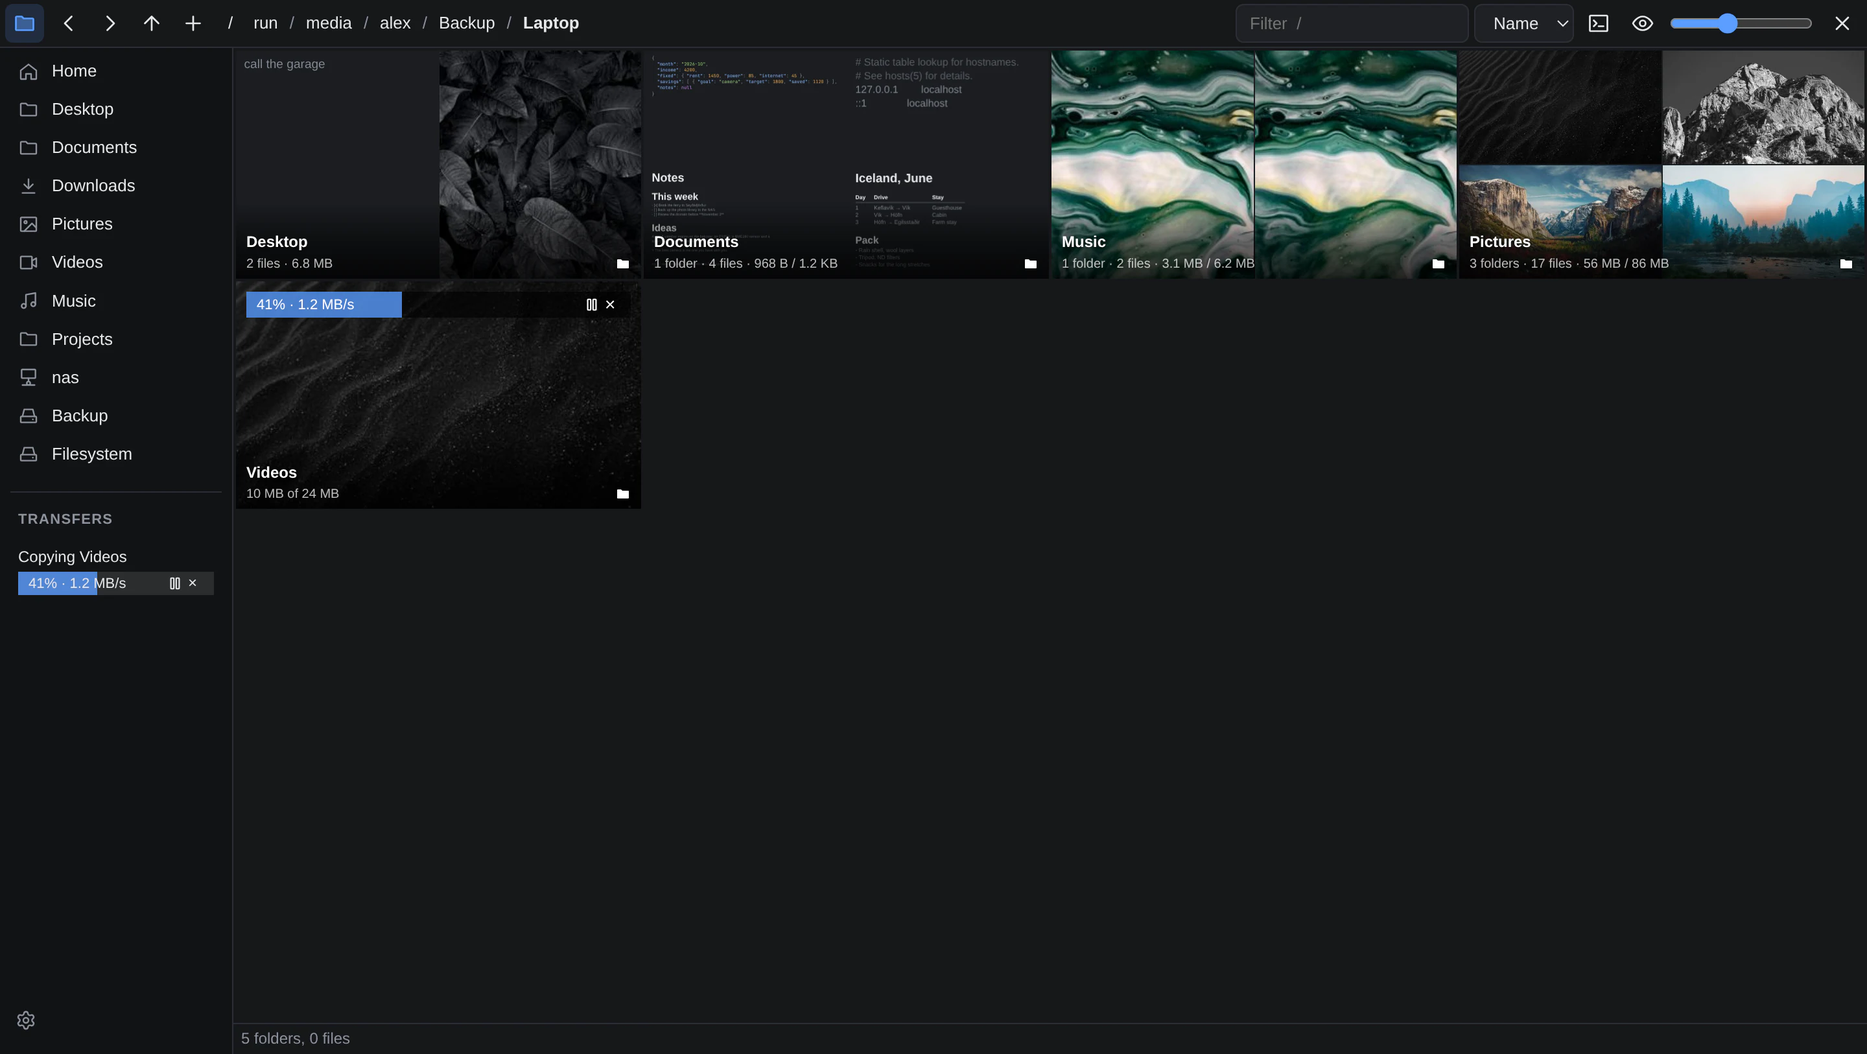
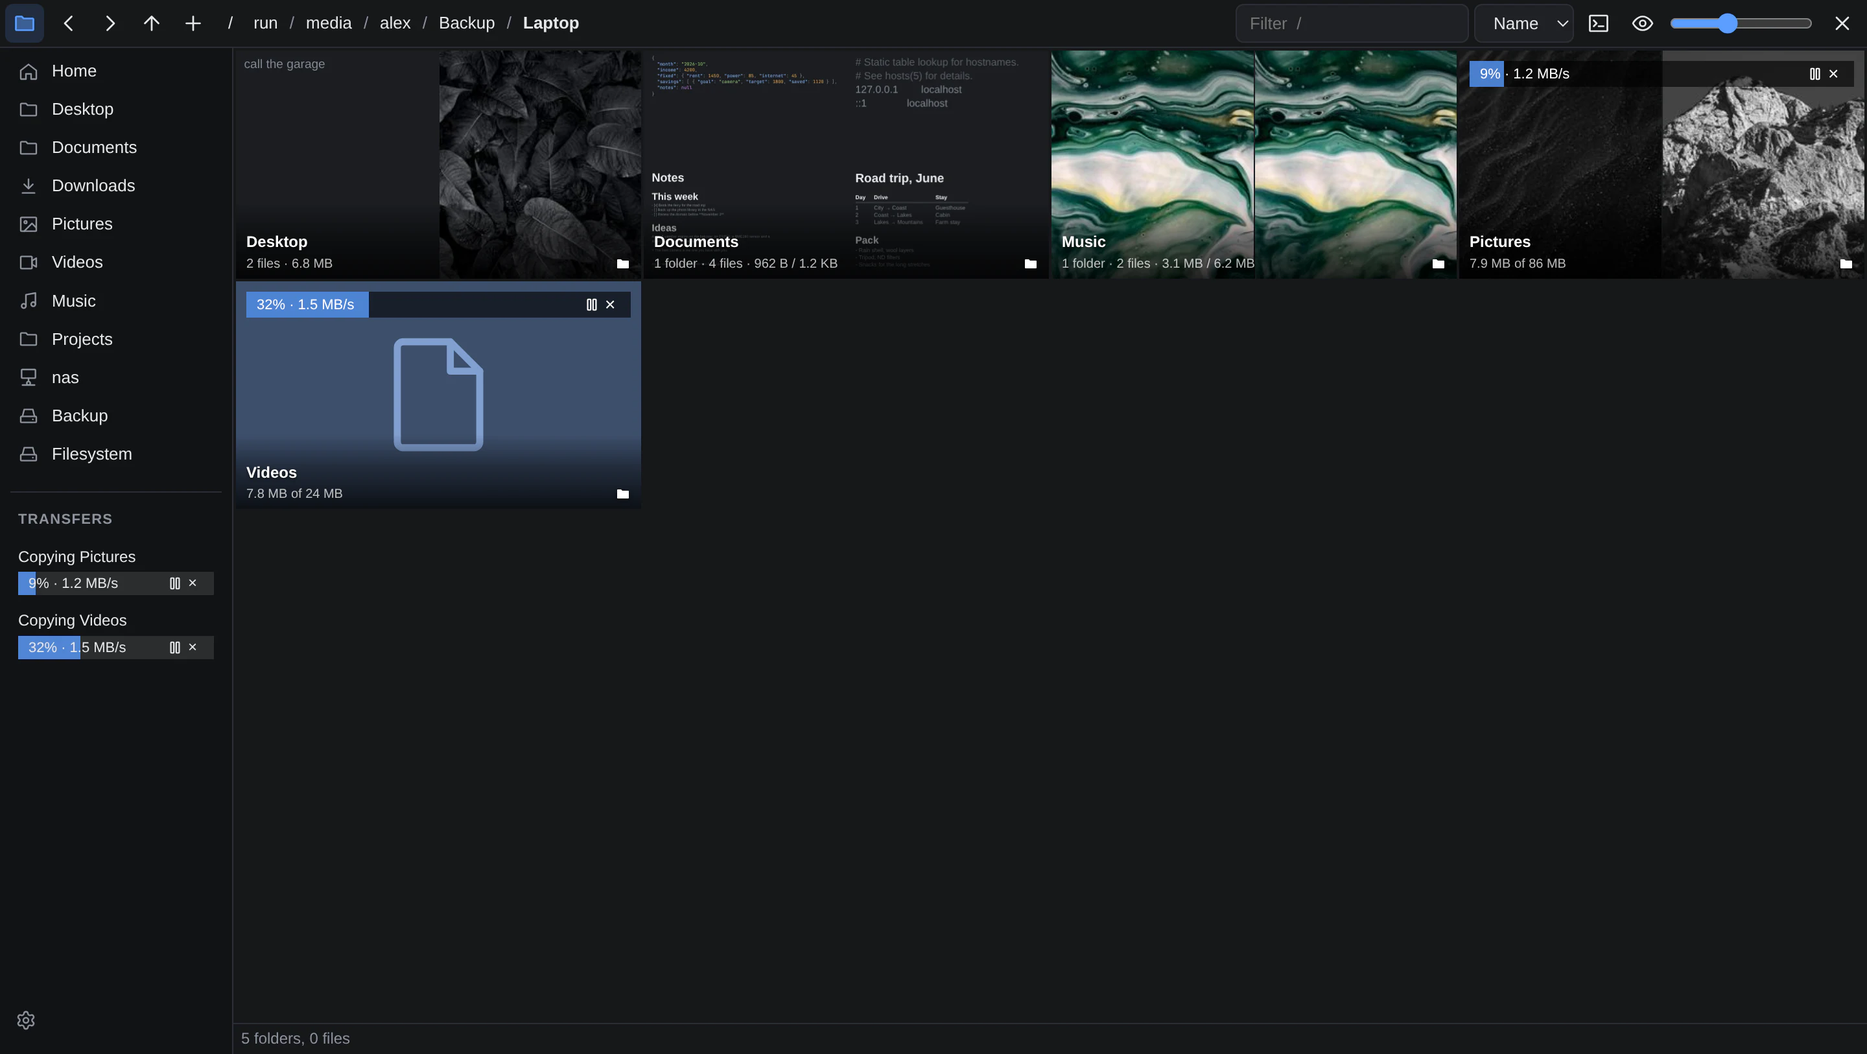
Windows open in the default browser (Chromium-based) unless "browser": "webkit", WebKitGTK the fallback; the sidebar's Transfers heading only while there's something (the gear → "Transfers and downloads…" otherwise); README: a Downloads section (panda-dl, our fork; Streamgrab's reports), screenshots
Claude-Session: https://claude.ai/code/session_017ARhVFPUT4MnMeCqxVuHaJ

diff --git a/apps/phil/ui/app.js b/apps/phil/ui/app.js
@@ -1654,6 +1654,7 @@ for (const input of settingsPop.querySelectorAll("[data-setting]")) {
     saveSettings();
   };
 }
+$("#settings-transfers").onclick = () => (openSettings(false), openTransfersView());
 themeSelect.onchange = () => api("/api/theme", { method: "PUT", body: JSON.stringify({ theme: themeSelect.value }) }).catch((err) => alert(err.message));
 
 function setTheme(theme) {
@@ -3610,6 +3611,8 @@ function renderTransferList() {
     ...state.browserDownloads.map((w) => ({ key: `web ${w.id}`, w })),
   ];
   keyed($("#transfers"), list, { key: (b) => b.key, kind: barKind, make: makeTransferRow, show: showTransferRow });
+  // Its heading only while there's something (or the view's open); the settings have a way in too.
+  $("#transfers-panel").classList.toggle("empty", !list.length && transfersView.hidden);
   if (!transfersView.hidden) renderTransfersView(list);
 }
 
@@ -3728,6 +3731,7 @@ function closeTransfersView() {
   if (transfersView.hidden) return;
   transfersView.hidden = true;
   $("#btn-transfers").setAttribute("aria-pressed", "false");
+  renderTransferList();
   const back = transfersFocus?.isConnected && transfersFocus !== document.body && !transfersView.contains(transfersFocus) ? transfersFocus : grid;
   back.focus({ preventScroll: true });
 }

diff --git a/engine/chromium.js b/engine/chromium.js
@@ -48,12 +48,13 @@ const CHROMIUM_LIKE = /chrom|brave|vivaldi|edge|opera|thorium|yandex|cromite|hel
 
 /**
  * The browser to use for windows (its program's path), by `setting` (the
- * settings' "browser", or PHIL_BROWSER): "default" (the default browser if
- * it's Chromium-based, otherwise the first of KNOWN installed), a path, or
- * "webkit"/empty: none (WebKitGTK windows). Null when there's none.
+ * settings' "browser", or PHIL_BROWSER): "default" or empty (the default
+ * browser if it's Chromium-based, otherwise the first of KNOWN installed), a
+ * path, or "webkit": none (WebKitGTK windows). Null when there's none.
  */
 export async function findBrowser(setting) {
-  if (!setting || setting === "webkit") return null;
+  if (setting === "webkit") return null;
+  setting ||= "default";
   if (setting.startsWith("/")) return (await isProgram(setting)) ? setting : null;
   if (setting !== "default") return CHROMIUM_LIKE.test(setting) ? await onPath(setting) : null; // (a name: one of theirs)
   const desktop = await run("xdg-settings", ["get", "default-web-browser"]);

diff --git a/apps/phil/ui/index.html b/apps/phil/ui/index.html
@@ -75,7 +75,7 @@
     <div class="brand" aria-hidden="true">PHIL</div>
     <nav id="places" aria-label="Folders and drives"></nav>
     <!-- Copies, moves, deletes and downloads under way (or paused): a click shows where it goes. Its heading opens the Transfers view. -->
-    <section id="transfers-panel">
+    <section id="transfers-panel" class="empty">
       <h3 class="heading"><button id="btn-transfers" type="button" title="All transfers, and the settings for downloads">Transfers</button></h3>
       <div id="transfers"></div>
     </section>
@@ -98,6 +98,7 @@
         <label class="check"><input type="checkbox" data-setting="showCameras"> Cameras</label>
         <h3 class="heading">Theme</h3>
         <select id="settings-theme" aria-label="Theme"></select>
+        <button id="settings-transfers" type="button" title="Every transfer, and the settings for downloads">Transfers and downloads…</button>
       </div>
     </div>
   </aside>

diff --git a/engine/main.js b/engine/main.js
@@ -197,9 +197,9 @@ async function serve({ profile = {}, request = null, browser = false, standalone
   const launchers = Object.fromEntries(
     await Promise.all(Object.entries(APPS).map(async ([name, app]) => [name, await app.launch()])),
   );
-  // Windows: in a Chromium-based browser (chromium.js) when the settings'
-  // "browser" (or PHIL_BROWSER) asks for one ("default": the default browser,
-  // or another installed; a path) and there is one; otherwise WebKitGTK's (window.js).
+  // Windows: in a Chromium-based browser (chromium.js): the default browser, or
+  // another installed (the settings' "browser", or PHIL_BROWSER: a name or path);
+  // with none, or "webkit", WebKitGTK's (window.js).
   const chromium = browser ? null : await import("./chromium.js").then(async (m) => {
     const path = await m.findBrowser(Deno.env.get("PHIL_BROWSER") ?? await setting("browser"));
     return path && { module: m, path };

diff --git a/apps/phil/ui/style.css b/apps/phil/ui/style.css
@@ -940,4 +940,6 @@ body.choosing #files { --chooser-h: 48px; }
 #settings-pop select { width: 100%; }
 /* What the settings leave out of the sidebar (and a file chooser's window). */
 body.no-transfers #transfers-panel, body.no-cameras #cameras-panel { display: none; }
+#transfers-panel.empty { display: none; }
+#settings-transfers { margin-top: 6px; }
 body.choosing .sidebar-foot { display: none; } /* a file chooser: no settings */

diff --git a/README.md b/README.md
@@ -1,8 +1,10 @@
 # phil
 
 A scopemaxed, vibecoded file manager and the engine it
-runs on. The UI is plain HTML/CSS/JS rendered by the system WebKitGTK; the
-backend is JavaScript running on Deno. No bundled browser, no npm dependencies.\
+runs on. The UI is plain HTML/CSS/JS, shown in app windows of your default
+browser's engine (Chromium-based: Chrome, Brave, Vivaldi...), with the system
+WebKitGTK as the fallback; the backend is JavaScript running on Deno. No
+bundled browser, no npm dependencies.\
 Developed and tested on Omarchy, the install scripts assumes a similar setup.
 
 ![phil showing a Pictures folder: photo thumbnails with their tags, folders with previews of what's inside, and the folder's tags in the sidebar](docs/screenshots/pictures.webp)
@@ -17,6 +19,8 @@ Developed and tested on Omarchy, the install scripts assumes a similar setup.
 | Code, highlighted (textedit) | Resize, crop, turn and compress (imageresize) |
 | ![Copying the Videos folder to a backup drive: its tile and the sidebar's Transfers show the percentage and speed, with pause and stop](docs/screenshots/transfer.webp) | ![videoplayer playing a letterboxed video, its Crop menu open at 2.39:1](docs/screenshots/video.webp) |
 | Copying to another drive with rsync: progress on the folder and in the sidebar, pause, stop and resume | Videos play in the window (videoplayer); Crop cuts off the bars in the picture |
+| ![Downloads: torrents and a web download from panda-dl, and a video from Streamgrab, each with its bar on its tile and in the sidebar's Transfers](docs/screenshots/downloads.webp) | ![The Transfers view: every download in full, with speeds, time left, peers and seeds, and panda-dl's settings](docs/screenshots/transfers-view.webp) |
+| Torrents and web downloads (panda-dl) and browser videos (Streamgrab), as they come in | The Transfers view: each in full, and the settings for downloads |
 | ![The chips theme](docs/screenshots/chips.webp) | |
 | Themes: here, chips | |
 
@@ -25,7 +29,7 @@ Developed and tested on Omarchy, the install scripts assumes a similar setup.
 ## The engine and its apps
 
 phil is one app of `phil-engine`, which runs apps in one background process:
-their windows (GTK + WebKitGTK) share a main loop, and their servers a worker.
+their windows (the browser's, or GTK + WebKitGTK's: see [Windows](#windows-your-browsers-engine-or-webkitgtk)) share a main loop, and their servers a worker.
 The first app you run starts the engine in the background; after that, an app's
 command just asks the running engine for a window and returns, so windows open
 quickly. The engine keeps running after its last window closes.
@@ -95,16 +99,16 @@ chooser: apps' Open and Save dialogs (Brave's, Firefox's...) are phil windows. I
 `<browser>-127.0.0.1__phil-choose-Default`), for a window rule that floats
 them; they don't open the terminal panel or change the folder phil reopens. They start with hidden files hidden and without the sidebar's Transfers and Cameras, and keep their own sort, tile size and sidebar (the settings' `chooser`), apart from phil's windows'.
 
-### Windows in Chromium instead of WebKitGTK
+### Windows: your browser's engine, or WebKitGTK
 
-With `"browser": "default"` in `~/.config/phil/settings.json` (or
-`PHIL_BROWSER=default`), the engine's windows open in a Chromium-based browser
-instead: the default browser when it's one (Chrome, Chromium, Brave, Vivaldi,
-Edge, Opera…), otherwise the first of those installed; a browser's name
-(`"chromium"`) or path picks one. Its video and drawing are Blink's: HLS
-cameras that stuttered in WebKitGTK play smoothly. Without one (or with
-`"webkit"`, the default), windows are WebKitGTK's. A newly started engine
-takes the setting (`phil-engine --retire`, or `phil --quit`).
+The engine's windows open in your default browser when it's Chromium-based
+(Chrome, Chromium, Brave, Vivaldi, Edge, Opera…), otherwise in the first of
+those installed; with none, they're WebKitGTK's. `"browser"` in
+`~/.config/phil/settings.json` (or `PHIL_BROWSER`) picks another: a browser's
+name (`"chromium"`) or path, or `"webkit"` for WebKitGTK's windows always. In
+a browser, video and drawing are Blink's: HLS cameras that stuttered in
+WebKitGTK play smoothly. A newly started engine takes the setting
+(`phil-engine --retire`, or `phil --quit`).
 
 - One browser for all the engine's windows, with a profile of its own
   (`~/.local/state/phil/browser-<name>`; incognito: a throwaway one), so
@@ -323,6 +327,26 @@ up to 400 lines), when its tile comes into view. Documents (Word, RTF,
 OpenDocument) show their text too, from the Markdown textedit reads them as
 (below; converted once, then kept with the thumbnails).
 
+### Downloads
+
+phil shows downloads where they land, as it shows copies: a bar on the file or
+folder being downloaded and a row in the sidebar's Transfers, with pause and
+stop.
+
+- [panda-dl](https://github.com/navnlaus/panda-dl) (our fork of
+  [pandaind/panda-dl](https://github.com/pandaind/panda-dl), with what phil
+  needs: each torrent file's progress, skipping files, torrents in their own
+  folder) downloads web links and torrents. phil asks its daemon over its
+  socket: every download, a torrent's files each with their own progress,
+  peers and seeds, uploads while seeding. A link or `.torrent` dropped on phil
+  is downloaded where it's dropped; links and magnets copied to the clipboard
+  are downloaded too, if you want. Its settings are in the Transfers view
+  (click the Transfers heading).
+- Any other program can show its downloads there by writing a progress report
+  to `$XDG_RUNTIME_DIR/phil/transfers/<name>.json` (`apps/phil/browserdownloads.js`
+  has the format): Streamgrab, a Brave extension that downloads the videos and
+  streams a page plays, does.
+
 ### Settings
 
 The gear at the bottom of the sidebar: whether the sidebar shows Transfers and
@@ -378,7 +402,7 @@ empty space → Inspect Element works too.
 
 ## Requirements
 
-`webkit2gtk-4.1` (or a Chromium-based browser: see [Windows in Chromium](#windows-in-chromium-instead-of-webkitgtk)), `deno`, `wl-clipboard`, `libvips` (built with poppler, for PDF thumbnails) (`vipsthumbnail`, `vips`), `ffmpegthumbnailer`,
+A Chromium-based browser, or `webkit2gtk-4.1` (see [Windows](#windows-your-browsers-engine-or-webkitgtk)), `deno`, `wl-clipboard`, `libvips` (built with poppler, for PDF thumbnails) (`vipsthumbnail`, `vips`), `ffmpegthumbnailer`,
 `ffmpeg` (videoplayer: probing and converting), and with WebKitGTK, GStreamer
 plugins for its video (`gst-plugins-good`, `gst-libav`). `mpv`
 and `xdg-open` are used for "open externally". `udisks2` (`udisksctl`) mounts removable drives from the sidebar; a system drive's mount, like everything phil does as root, goes through `sudo`.
@@ -438,7 +462,7 @@ click; HTTP/2 carries any number over one connection, and WebKit only speaks it
 over TLS. The certificate is made at each start (openssl, a few ms), for
 127.0.0.1, kept in memory only, and trusted by the engine's windows alone
 (`webkit_web_context_allow_tls_certificate_for_host`; a browser's: see
-[Windows in Chromium](#windows-in-chromium-instead-of-webkitgtk)). `--browser` (a browser
+[Windows](#windows-your-browsers-engine-or-webkitgtk)). `--browser` (a browser
 wouldn't trust it) and `PHIL_PLAIN_HTTP=1` stay on plain HTTP, as does an
 engine that can't run openssl.
 
@@ -560,11 +584,11 @@ It is a real terminal (xterm.js on a pseudo-terminal), started with your
 | drop files from another phil window (any button: middle moves, the others ask) or another program (a file manager…) | onto a folder (its tile, a place in the sidebar, a part of the path) or the folder's empty space: "Move to" / "Copy to" (all from that folder already: "Copy here"), with the same progress, pause and resume |
 | right-drag onto a folder | menu: "Move to" / "Copy to" (folder tiles, path segments in the top bar, the sidebar); out of the window, the files go on being dragged, for the app they're dropped on to copy, move or ask |
 | a copy or move under way | a bar on the folder it goes to, on what it's making there, on the file it's at (that file's percentage), and in the sidebar's Transfers, with the percentage and speed (time left in its tooltip); while it gets ready (counting, rsync listing the files, or on a resume comparing them with what's there) a turning icon and what it's doing (in the sidebar, the icon); ⏸ pauses, × stops (what's done stays: a move removes each file only once it's copied). Its record (in phil's metadata, every few seconds) outlives a crash: a copy cut off shows "Stopped at 45%" on its folder, and the file it was at "Cut off at 18%" (a file that takes more than a few seconds has a record of its own; in the sidebar's Transfers, just the percentage); ↻ resumes it where it stopped: finished files are skipped, and a file that was cut off is appended to, from where it stopped, then checked whole against the original (rsync --inplace --append-verify; after a crash too); copying the same thing there again goes on with it too; × forgets it. rsync stops with phil, so nothing copies on unseen. Moves within a drive, and copies within one that clones files (btrfs), are instant and skip it. Folders being copied into show their size as it goes: the folder a copy (of one item) is making, "1.3 GB of 3.0 GB"; the folder it goes into, its size growing by what's been copied. Before it starts (a resume too), what's left to copy is checked against the destination's free space: too little, it says so and doesn't start. A copy that fails says why, from rsync's errors ("No space left on device", not the broken pipe the other side reports) |
-| a download under way ([panda-dl](https://github.com/pandaind/panda-dl)'s: HTTP and BitTorrent) | a bar like a copy's: on what's being downloaded (once it's there; a torrent's files each with their own progress, and the folders in it with theirs together: a file it has finished gets the finished mark and its thumbnail while the rest goes on; this needs panda-dl to list a torrent's files, a change to it in `~/Projects/panda-dl`, branch `file-progress`; without that, its files are guessed and share its progress), on the folder it goes to and in the sidebar's Transfers, with the percentage and speed (time left and peers in its tooltip); ⏸ pauses, ▶ resumes, × stops and forgets it (what's downloaded stays). × on one of a torrent's files (or a folder in it), or deleting it in phil, drops just that from the download and the rest goes on; dropping its last file closes it. phil asks panda-dl's daemon over its socket, on one connection: every second while something downloads, every 5 seconds otherwise, never while no window is open (`apps/phil/downloads.js`; `PANDA_DL_SOCKET` for another socket). What's being downloaded isn't thumbnailed till it's done, then at once. Links dropped on a folder (a tile, a place, a part of the path, or the empty space: the folder shown), a magnet link or a web link from a browser, are downloaded there; a dropped .torrent file offers "Download into" before Move and Copy (panda-dl's daemon is started then if it isn't running: `panda-dl start`, `PANDA_DL` for another panda-dl; it runs on apart from phil). One finished but still in panda-dl's list has a small mark on its tile: a download icon, and ↑ with its upload speed while it's seeding (what it has uploaded, and its ratio, in the tooltip); × takes it off the list (the file stays) |
+| a download under way ([panda-dl](https://github.com/navnlaus/panda-dl)'s: HTTP and BitTorrent) | a bar like a copy's: on what's being downloaded (once it's there; a torrent's files each with their own progress, and the folders in it with theirs together: a file it has finished gets the finished mark and its thumbnail while the rest goes on; this needs panda-dl to list a torrent's files, a change to it in `~/Projects/panda-dl`, branch `file-progress`; without that, its files are guessed and share its progress), on the folder it goes to and in the sidebar's Transfers, with the percentage and speed (time left and peers in its tooltip); ⏸ pauses, ▶ resumes, × stops and forgets it (what's downloaded stays). × on one of a torrent's files (or a folder in it), or deleting it in phil, drops just that from the download and the rest goes on; dropping its last file closes it. phil asks panda-dl's daemon over its socket, on one connection: every second while something downloads, every 5 seconds otherwise, never while no window is open (`apps/phil/downloads.js`; `PANDA_DL_SOCKET` for another socket). What's being downloaded isn't thumbnailed till it's done, then at once. Links dropped on a folder (a tile, a place, a part of the path, or the empty space: the folder shown), a magnet link or a web link from a browser, are downloaded there; a dropped .torrent file offers "Download into" before Move and Copy (panda-dl's daemon is started then if it isn't running: `panda-dl start`, `PANDA_DL` for another panda-dl; it runs on apart from phil). One finished but still in panda-dl's list has a small mark on its tile: a download icon, and ↑ with its upload speed while it's seeding (what it has uploaded, and its ratio, in the tooltip); × takes it off the list (the file stays) |
 | the sidebar's Transfers | every copy, move, delete and download (paused ones too, finished downloads still seeding, and copies and moves cut off, wherever they were going: phil crashed or was closed, or ×; their records are in phil's metadata, so they're there after a restart, with ↻ to resume them where they stopped and × to forget them), each its name over its bar, with the bar's buttons; click one: the folder it goes to, with what it's making selected |
 | an app's download saved through phil's file chooser (Brave's, Chrome's, Firefox's...) | in the Transfers list and on its partial file's tile (`<path>.crdownload`, `<path>.part`, next to where it was saved; a Chromium-family browser that started it before the Save was answered keeps it as `Unconfirmed 123456.crdownload` in its download folder till it's done: the one made in the two minutes before the save is taken to be it, and has the download's name as its description till it's done): how far, how fast, the time left. Its full size from a Chromium-family browser's History database (by that path; read in place, without locking it, when it changed); otherwise unknown (a moving stripe). Not growing for 30 s: "paused or stalled". Gone from the list when it's renamed into place. The paths saved are kept (`~/.local/state/phil/saved-downloads.json`), so a restart keeps following them. Downloads not saved through phil aren't shown, and phil can't pause or stop one (`apps/phil/browserdownloads.js`) |
 | any program's transfer that reports to phil (Streamgrab's downloads, ~/Projects/streamgrab) | in the Transfers list, as it says: a JSON file each in `$XDG_RUNTIME_DIR/phil/transfers/` (`{id, app, name, target, path, bytes, total, percent, speed, eta, state, started, pid, incognito, stoppable, stopKeeps}`), rewritten as it goes and removed when it's done; × sends its process SIGTERM when it says it may be stopped. One whose process is gone is dropped. An incognito phil lists the incognito ones, the other phil the others |
-| click the sidebar's Transfers heading | the Transfers view, over the folder: every transfer in full (what, where to: a click shows it there, its bar and buttons, size, speeds, time left, peers, what's uploaded; a torrent's files, each with its own progress and ×), and the settings for downloads, panda-dl's: its download folder (for links copied to the clipboard and its own command; drops in phil go where they're dropped), connections per web download, and whether copied magnet and .torrent links are downloaded. Saved as they're changed: through its daemon when it's running, otherwise in `~/.config/panda-dl/config.json`. Esc, ×, or opening a folder closes it |
+| click the sidebar's Transfers heading (there while something's under way, paused or stopped; otherwise the sidebar's settings, the gear → "Transfers and downloads…") | the Transfers view, over the folder: every transfer in full (what, where to: a click shows it there, its bar and buttons, size, speeds, time left, peers, what's uploaded; a torrent's files, each with its own progress and ×), and the settings for downloads, panda-dl's: its download folder (for links copied to the clipboard and its own command; drops in phil go where they're dropped), connections per web download, and whether copied magnet and .torrent links are downloaded. Saved as they're changed: through its daemon when it's running, otherwise in `~/.config/panda-dl/config.json`. Esc, ×, or opening a folder closes it |
 | right-drag onto the folder it's in | "Copy here" (the tiles' empty space, a file, that folder in the path): copies beside them, numbered ("photo 2.jpg", "Folder 2"), selected |
 | middle-drag onto a folder | move there right away; out of the window, the files go on being dragged, for the app they're dropped on to move (or copy) |
 | Backspace, Esc | parent folder |
